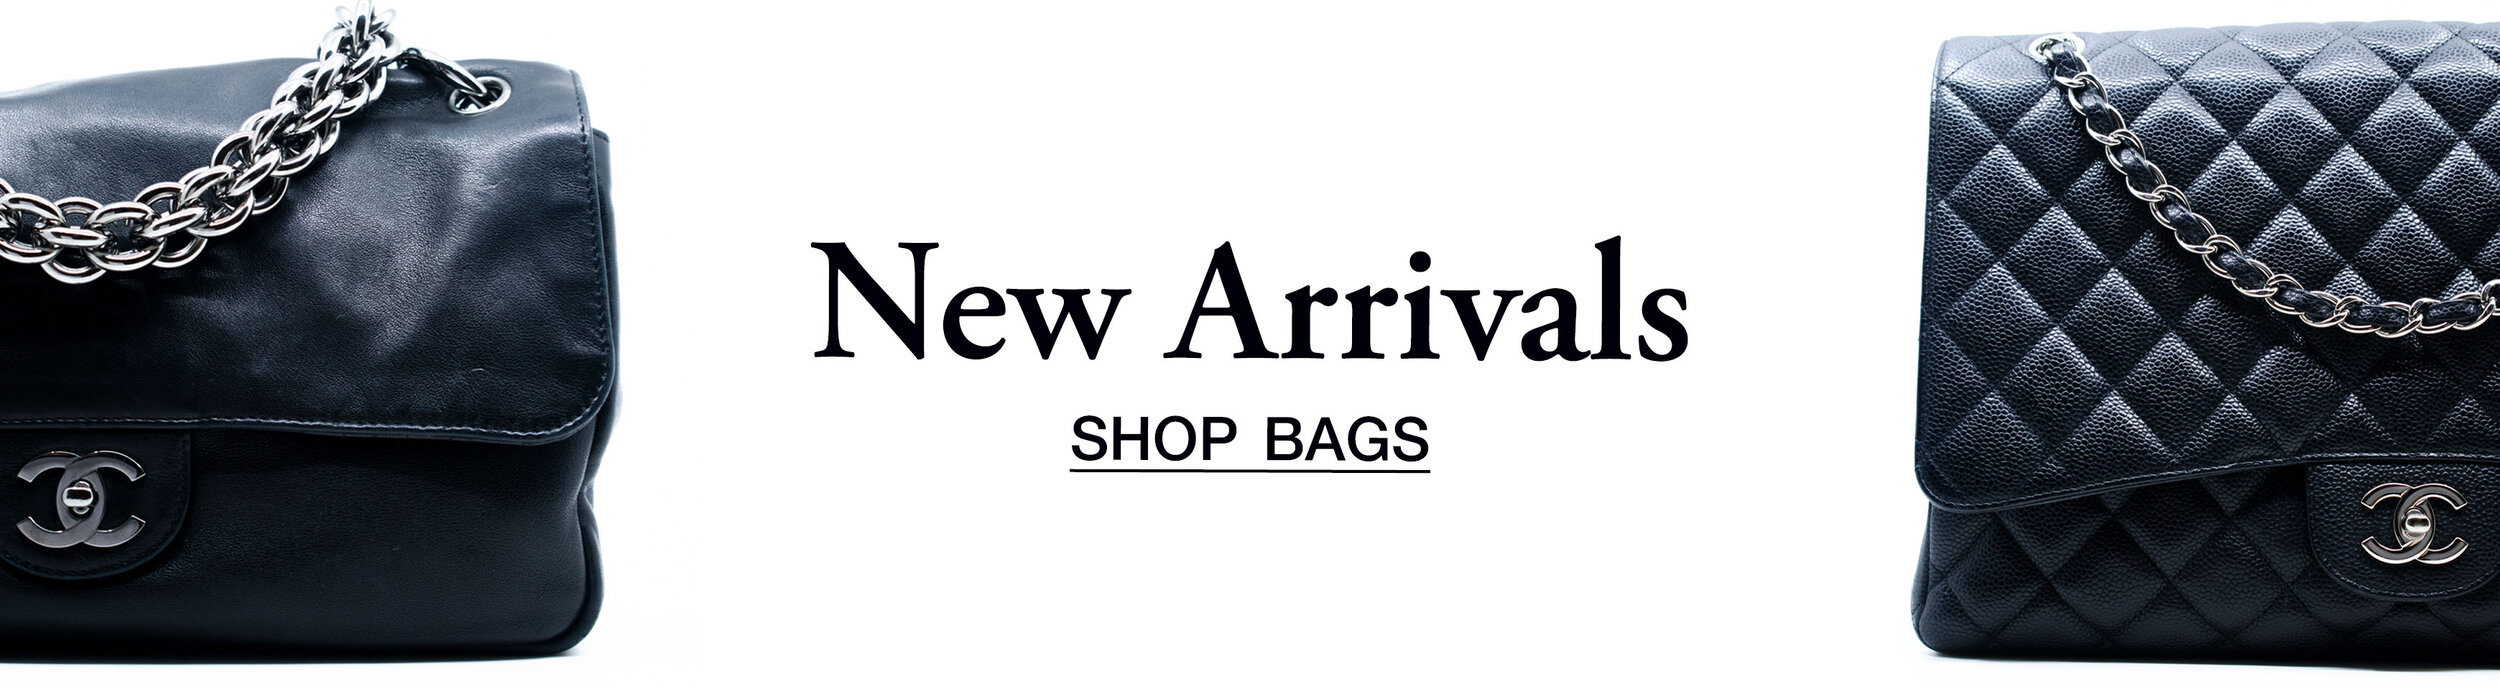
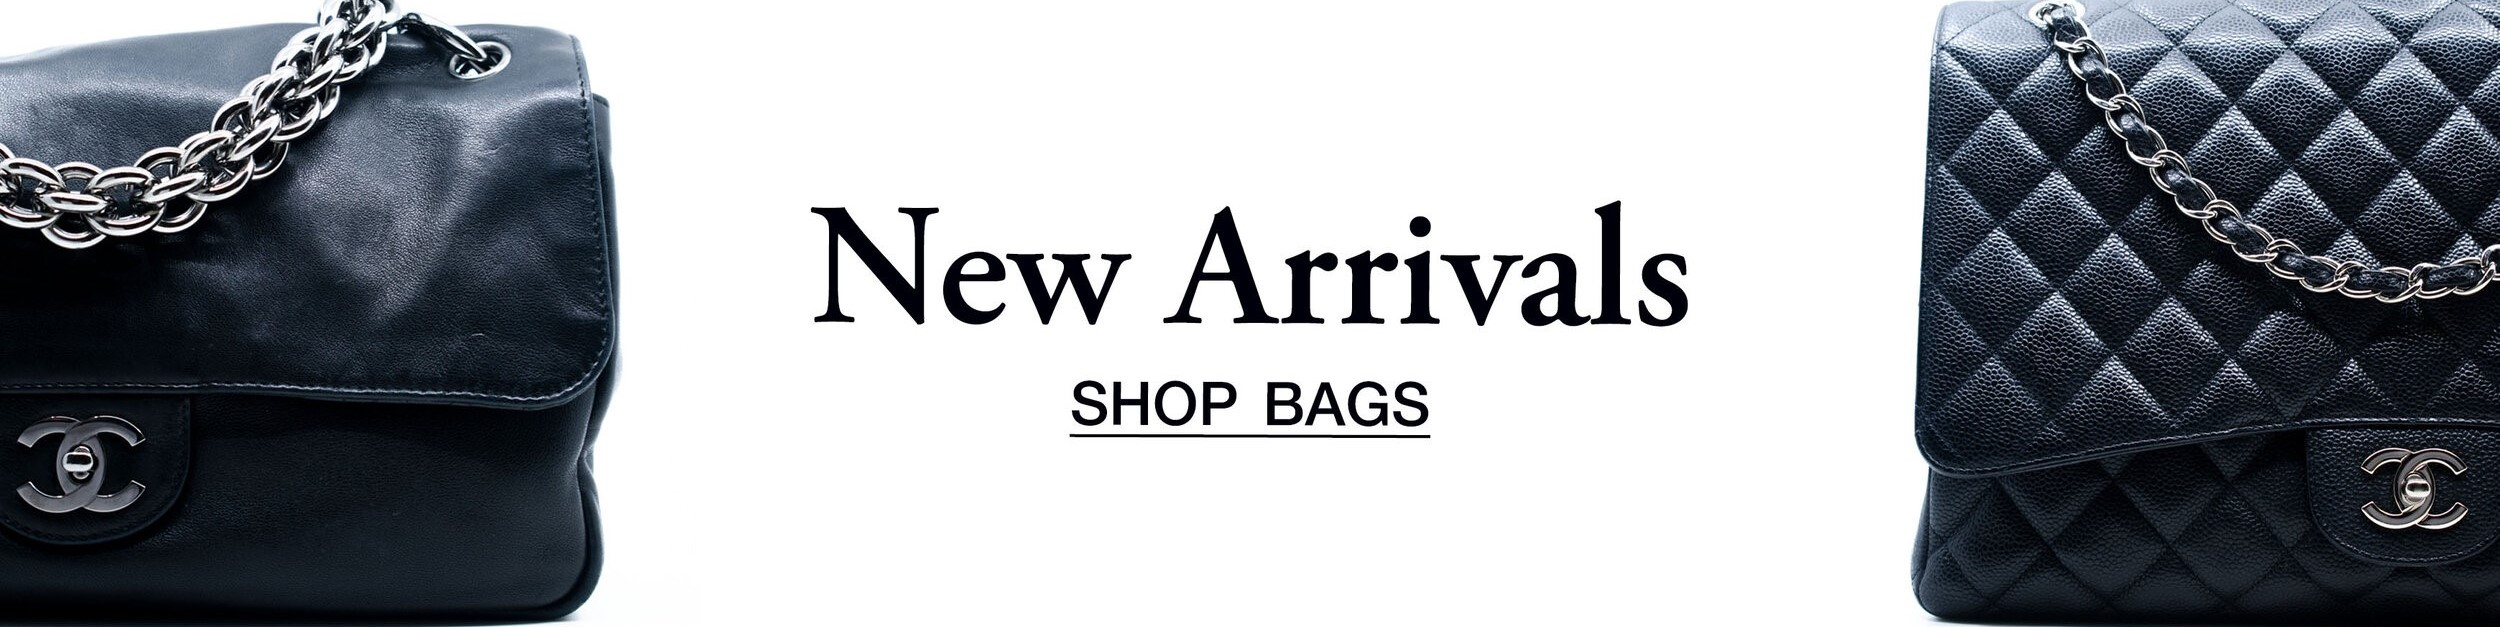
Update

diff --git a/src/component/Home/banner/Banner2.jsx b/src/component/Home/banner/Banner2.jsx
@@ -1,9 +1,8 @@
 import React from 'react'
 import Grid from '@material-ui/core/Grid'
-import banner1 from '../../../images/banner/banner2-1.jpg'
-import banner2 from '../../../images/banner/banner2-2.jpg'
+import banner from '../../../images/banner/banner2.jpg'
 
-const Banner2 = () => {
+const Banner3 = () => {
   return (
     <Grid
       container
@@ -13,16 +12,9 @@ const Banner2 = () => {
         justifyContent: 'center',
       }}
     >
-      <Grid item xl={12} sm={7} md={5}>
+      <Grid item xl={12}>
         <img
-          src={banner1}
-          alt="banner"
-          style={{ width: '100%', height: 'auto' }}
-        />
-      </Grid>
-      <Grid item xl={12} sm={7} md={6}>
-        <img
-          src={banner2}
+          src={banner}
           alt="banner"
           style={{ width: '100%', height: 'auto' }}
         />
@@ -31,4 +23,4 @@ const Banner2 = () => {
   )
 }
 
-export default Banner2
+export default Banner3

diff --git a/src/component/Home/banner/Banner5.jsx b/src/component/Home/banner/Banner5.jsx
@@ -1,7 +1,6 @@
 import React from 'react'
 import Grid from '@material-ui/core/Grid'
-import banner1 from '../../../images/banner/banner2-1.jpg'
-import banner2 from '../../../images/banner/banner2-2.jpg'
+import banner from '../../../images/banner/banner5.jpeg'
 
 const Banner5 = () => {
   return (
@@ -13,16 +12,9 @@ const Banner5 = () => {
         justifyContent: 'center',
       }}
     >
-      <Grid item xl={12} sm={7} md={5}>
+      <Grid item xl={12}>
         <img
-          src={banner1}
-          alt="banner"
-          style={{ width: '100%', height: 'auto' }}
-        />
-      </Grid>
-      <Grid item xl={12} sm={7} md={6}>
-        <img
-          src={banner2}
+          src={banner}
           alt="banner"
           style={{ width: '100%', height: 'auto' }}
         />
